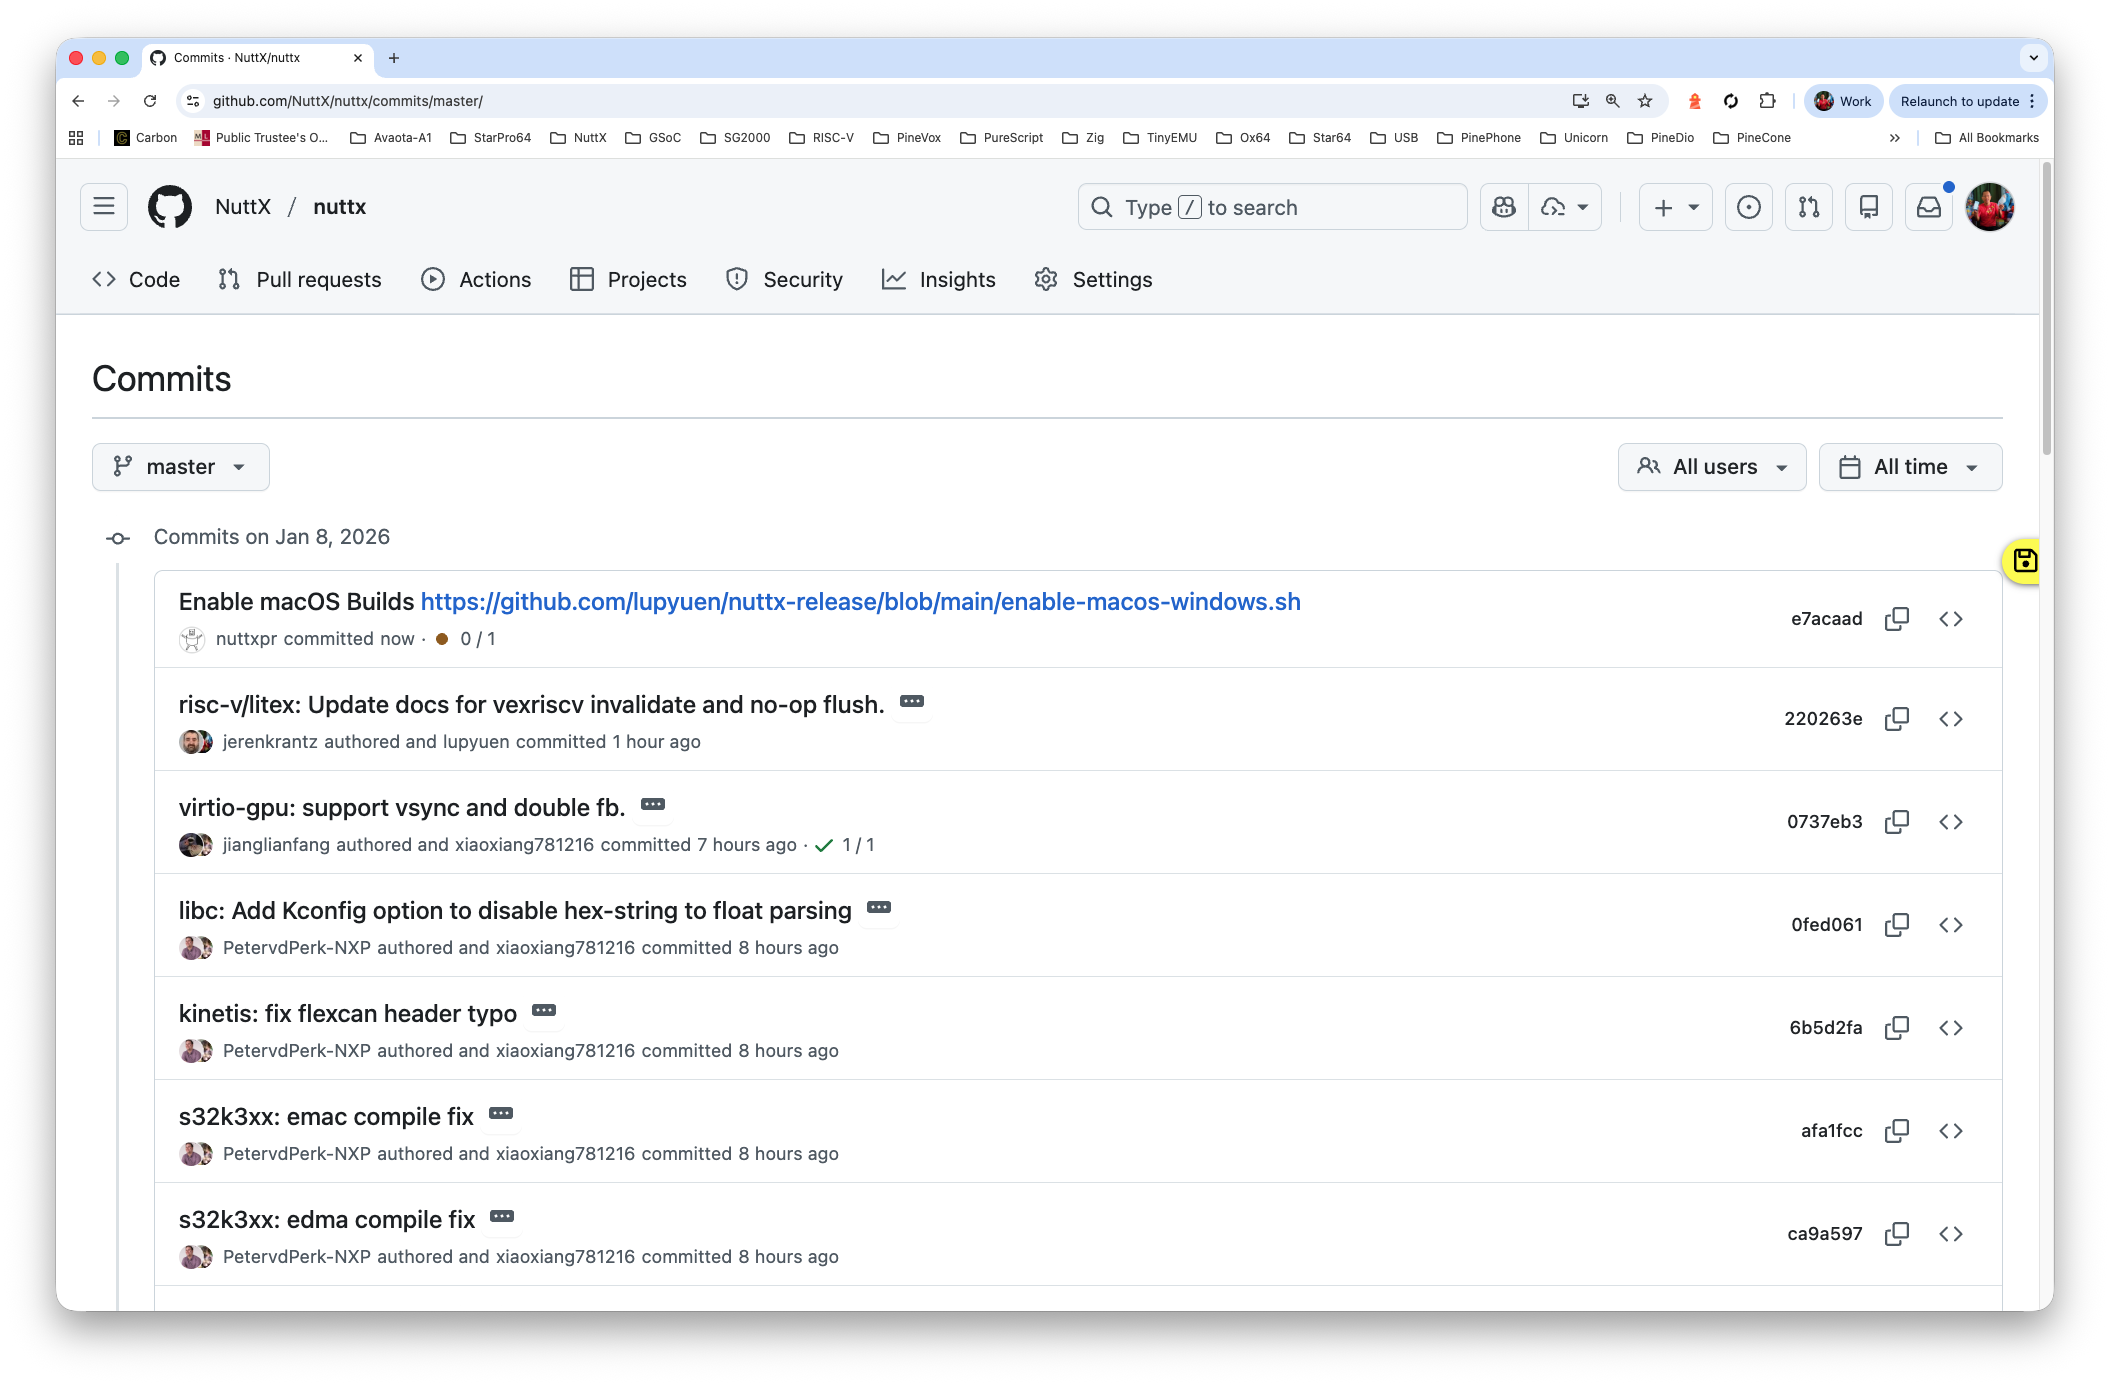
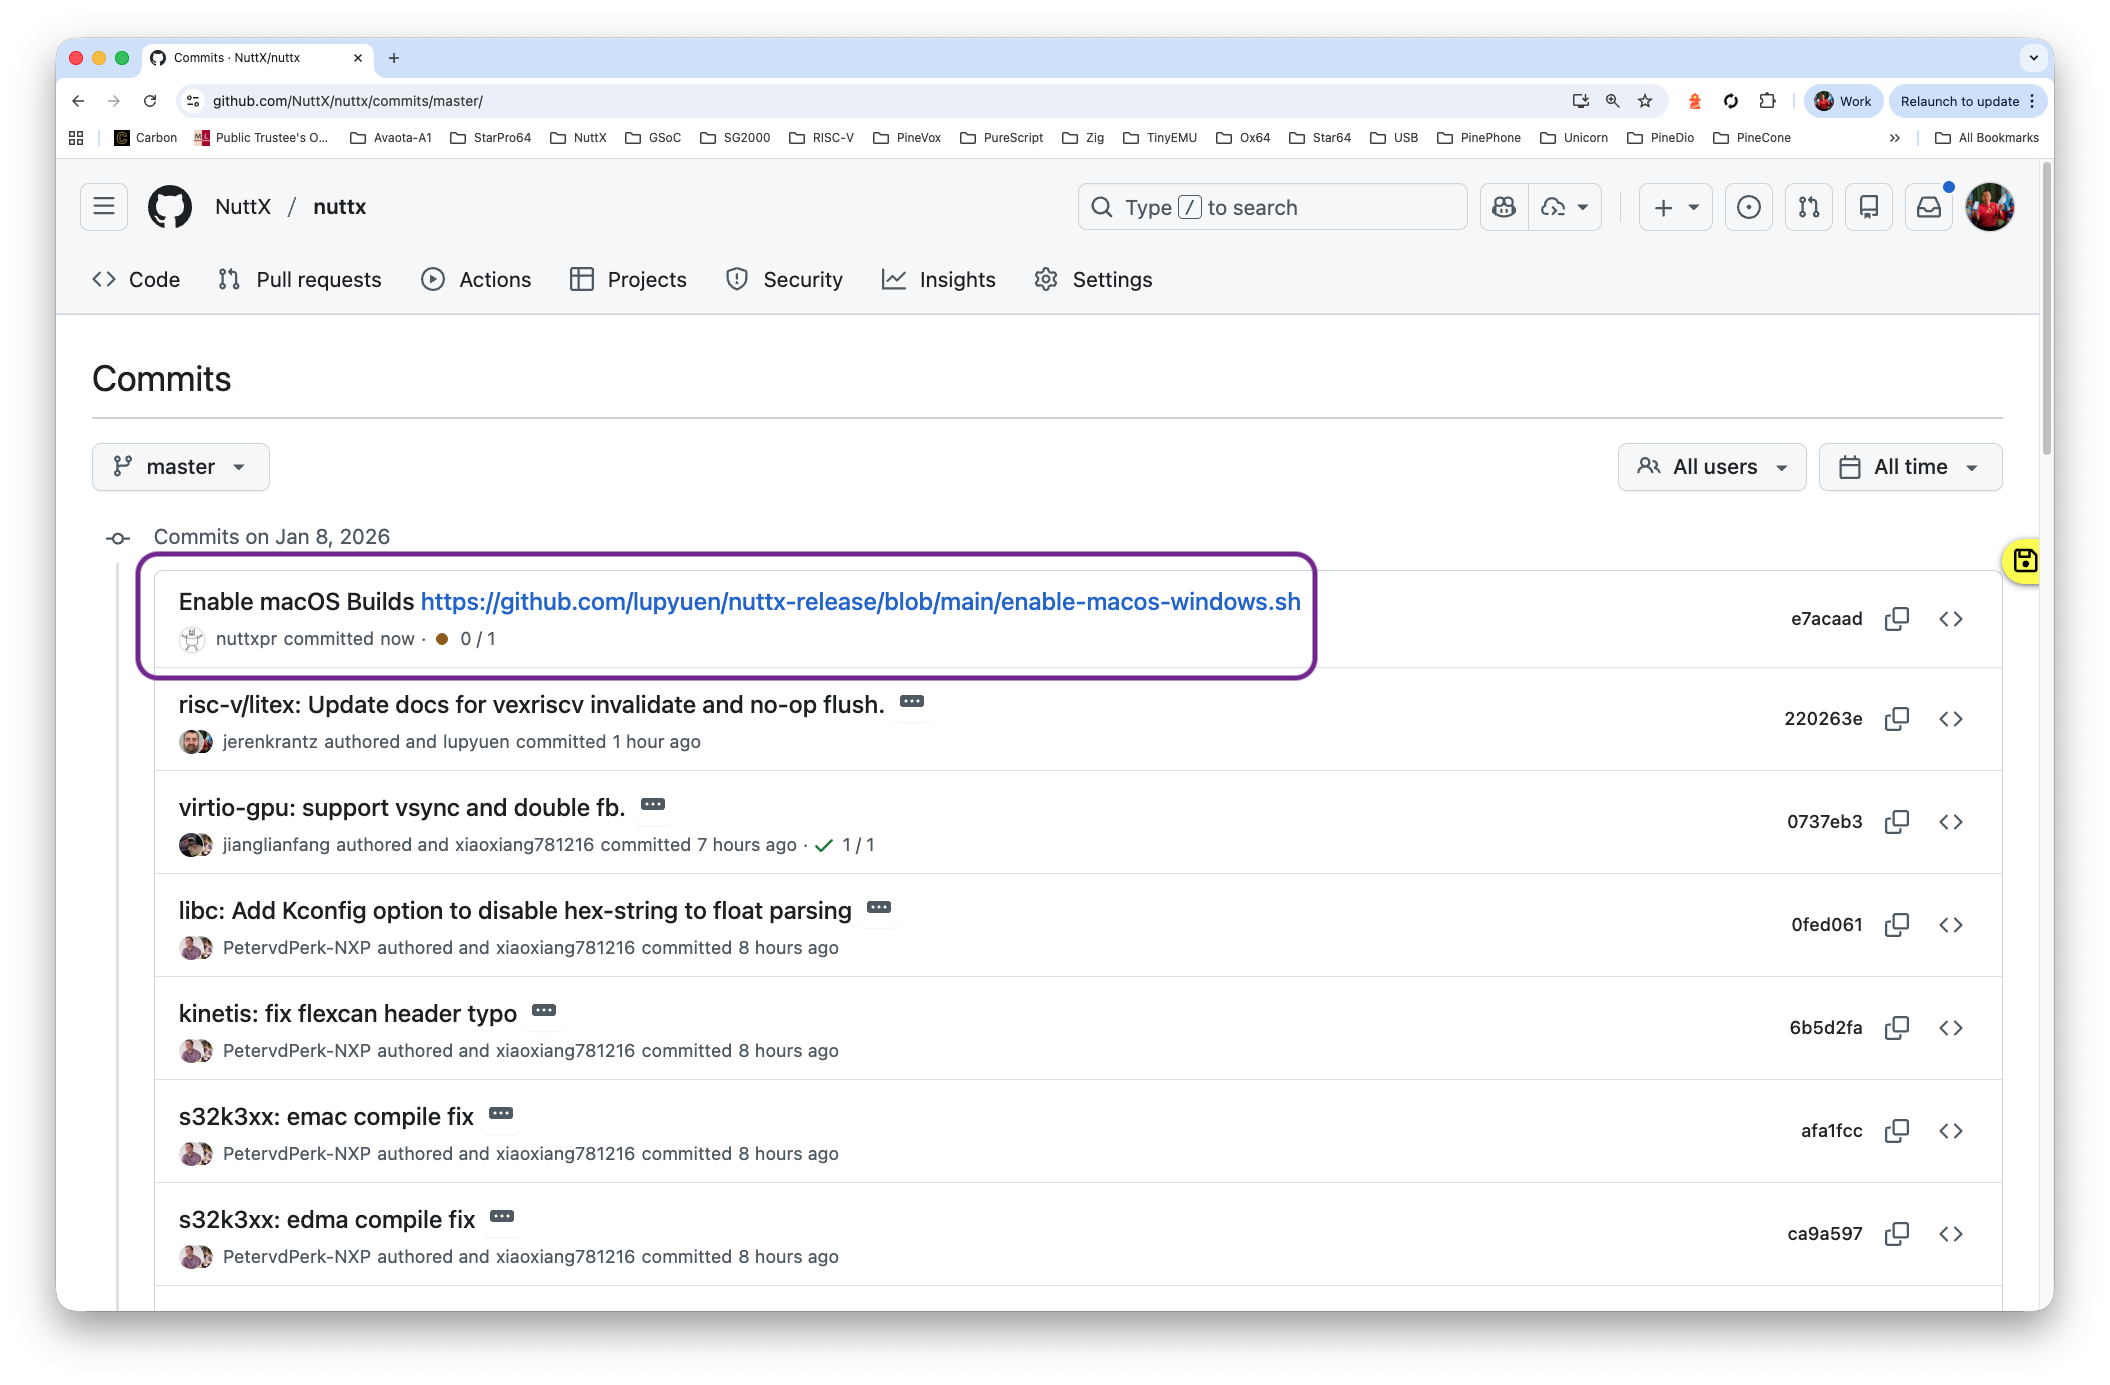
Update article

Changed region(s): [[0.0616, 0.3726, 0.6161, 0.4347], [0.0616, 0.4657, 0.6161, 0.4968], [0.6161, 0.4036, 0.6469, 0.4347]]

diff --git a/src/dashboard.md b/src/dashboard.md
@@ -661,25 +661,27 @@ cd $HOME/nuttx-release
 
 [(Log for enable-macos-windows.sh)](https://gist.github.com/lupyuen/3d21869dae705d6c9d3acc1e8d94ffd1)
 
-We should see the patch that starts the NuttX Build...
+We'll see the __"Enable macOS Patch"__ that starts the NuttX Build...
 
 ```bash
 https://github.com/NuttX/nuttx/commits/master/
 ```
 
-TODO: Pic
+![TODO](https://lupyuen.org/images/dashboard-github15.png)
 
-And the NuttX Build should be running...
+And the __NuttX Build__ should be running...
 
 ```bash
 https://github.com/NuttX/nuttx/actions/workflows/build.yml
 ```
 
-TODO: Pic
+![TODO](https://lupyuen.org/images/dashboard-github16.png)
 
-In case of sync problems: Go to https://github.com/NuttX/nuttx/tree/master, click __"Sync Fork > Update Branch (or Discard Commit)"__. Then run _enable-macos-windows.sh_ followed by _sync-build-ingest.sh_.
+In case of sync problems: Go to https://github.com/NuttX/nuttx/tree/master, click __"Sync Fork > Update Branch (or Discard Commit)"__ (pic below). Then run _enable-macos-windows.sh_ followed by _sync-build-ingest.sh_.
 
-If we see
+![TODO](https://lupyuen.org/images/dashboard-github7.png)
+
+If we see...
 
 ```bash
 fatal: cannot create directory at 'arch/arm/src/kinetis': No space left on device
@@ -823,51 +825,45 @@ TODO
 
 # Appendix: NuttX Mirror Repo
 
-`nuttxpr` will start the build by pushing a patch to the NuttX Mirror Repo (pic above). We grant permission to `nuttxpr`
+_What triggers the Daily Build at NuttX Mirror Repo?_
 
-NuttX Mirror Collaborators: https://github.com/NuttX/nuttx/settings/access
+Our script _sync-build-ingest.sh_ will trigger the __Daily Build__, followed by the ingestion of the GitHub Actions Logs.
 
-Click "Add People"
+Inside the script: Our Regular GitHub Account _nuttxpr_ will start the build by pushing a patch to the NuttX Mirror Repo (pic above). This is how we grant the __Push Permission__ to _nuttxpr_...
 
-Enter `nuttxpr`
+1.  Browse to the Collaborators for NuttX Mirror Repo
 
-Role: Write
+    ```bash
+    https://github.com/NuttX/nuttx/settings/access
+    ```
 
-Log in as `nuttxpr` to accept the invitation
+1.  Click __"Add People"__
 
-Check the collaborators: https://github.com/NuttX/nuttx/settings/access
+    Enter __nuttxpr__
 
-![TODO](https://lupyuen.org/images/dashboard-github1.png)
+    ![TODO](https://lupyuen.org/images/dashboard-github8.png)
 
-![TODO](https://lupyuen.org/images/dashboard-github2.png)
+1.  Set the Role to __"Write"__
 
-![TODO](https://lupyuen.org/images/dashboard-github3.png)
+    ![TODO](https://lupyuen.org/images/dashboard-github9.png)
 
-![TODO](https://lupyuen.org/images/dashboard-github4.png)
+    ![TODO](https://lupyuen.org/images/dashboard-github10.png)
 
-![TODO](https://lupyuen.org/images/dashboard-github5.png)
+1.  Log in as _nuttxpr_ to accept the invitation
 
-![TODO](https://lupyuen.org/images/dashboard-github6.png)
+    ![TODO](https://lupyuen.org/images/dashboard-github11.png)
 
-![TODO](https://lupyuen.org/images/dashboard-github7.png)
+    ![TODO](https://lupyuen.org/images/dashboard-github12.png)
 
-![TODO](https://lupyuen.org/images/dashboard-github8.png)
+    ![TODO](https://lupyuen.org/images/dashboard-github13.png)
 
-![TODO](https://lupyuen.org/images/dashboard-github9.png)
+1.  Check that _nuttxpr_ has become a collaborator
 
-![TODO](https://lupyuen.org/images/dashboard-github10.png)
+    ```bash
+    https://github.com/NuttX/nuttx/settings/access
+    ```
 
-![TODO](https://lupyuen.org/images/dashboard-github11.png)
-
-![TODO](https://lupyuen.org/images/dashboard-github12.png)
-
-![TODO](https://lupyuen.org/images/dashboard-github13.png)
-
-![TODO](https://lupyuen.org/images/dashboard-github14.png)
-
-![TODO](https://lupyuen.org/images/dashboard-github15.png)
-
-![TODO](https://lupyuen.org/images/dashboard-github16.png)
+    ![TODO](https://lupyuen.org/images/dashboard-github14.png)
 
 TODO
 
